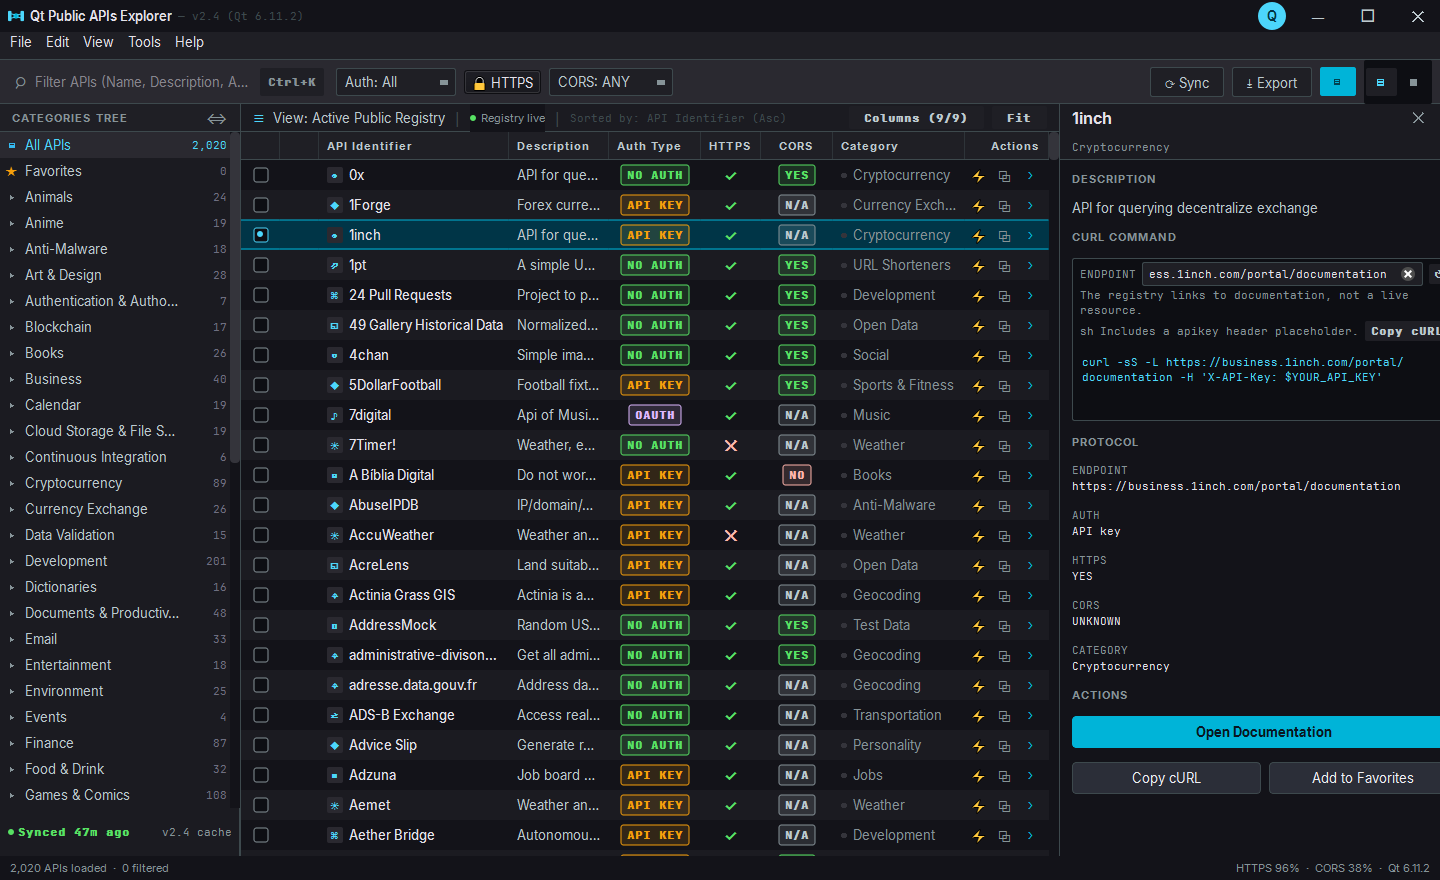
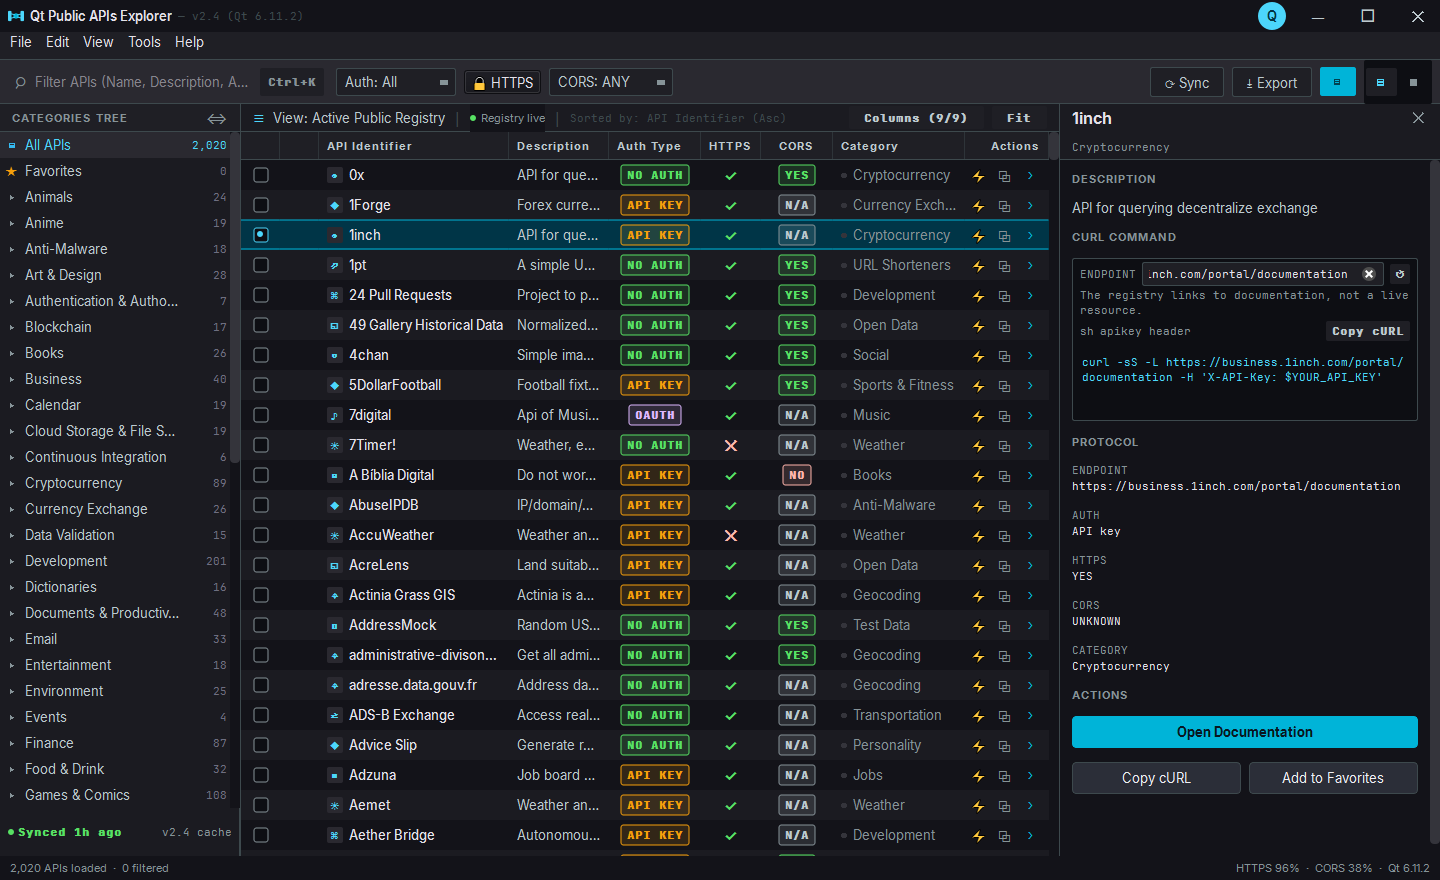
Draw a single title bar in the frameless window
The window now sets FramelessWindowHint so the themed TitleBar is the only
chrome; leaving the native frame on stacked two title bars on Windows.

That removes the OS-provided affordances, so the bar supplies them:
dragging to move, double-click to maximize, and working minimize/maximize/
close buttons. The maximize glyph tracks state, including maximization
triggered externally by snap layouts or a tiling window manager.

Frameless windows also lose the native resize grip, so edges are hit-tested
through an application-level event filter with the matching resize cursors,
clamped to the minimum size.

Also fixes inspector content overflowing its 380px pane: the endpoint field,
note and auth hint now size-ignore horizontally, and the auth hint text was
shortened, so nothing clips the pane edge.

Changed region(s): [[0.75, 0.1841, 1.0, 0.9511], [0.0625, 0.9205, 0.0938, 0.9511]]

diff --git a/qtapis/mainwindow.py b/qtapis/mainwindow.py
@@ -6,7 +6,7 @@ import csv
 import json
 from datetime import datetime, timezone
 
-from PySide6.QtCore import Qt, QTimer, QUrl, qVersion
+from PySide6.QtCore import QPoint, Qt, QTimer, QUrl, qVersion
 from PySide6.QtGui import QAction, QCloseEvent, QDesktopServices, QKeySequence
 from PySide6.QtWidgets import (
     QAbstractItemView,
@@ -69,6 +69,9 @@ APP_VERSION = "2.4"
 # the card view renders a bounded first page and says so.
 CARD_PAGE_SIZE = 240
 
+# Pointer distance from a window edge that starts a resize drag.
+RESIZE_MARGIN = 6
+
 
 def _friendly_age(stamp: str) -> str:
     """Render an ISO timestamp as a short 'synced N ago' string."""
@@ -96,8 +99,20 @@ class MainWindow(QMainWindow):
     def __init__(self, catalog: Catalog, parent=None):
         super().__init__(parent)
         self.setWindowTitle("Qt Public APIs Explorer")
+        # Frameless: the themed TitleBar is the only chrome. Leaving the native
+        # frame on would stack two title bars.
+        self.setWindowFlag(Qt.FramelessWindowHint, True)
+        self.setAttribute(Qt.WA_TranslucentBackground, False)
         self.resize(1440, 880)
         self.setMinimumSize(960, 600)
+
+        # Frameless windows lose the native resize grip, so track the edges.
+        self._resize_edge: str | None = None
+        self._resize_origin: tuple[int, int, int, int] | None = None
+        self._resize_global: QPoint | None = None
+        app = QApplication.instance()
+        if app is not None:
+            app.installEventFilter(self)
 
         self.catalog = catalog
         self.store = RecordStore(catalog.records, catalog.fetched_at, self)
@@ -116,6 +131,136 @@ class MainWindow(QMainWindow):
         self._apply_catalog(catalog)
         QTimer.singleShot(0, self.table_view.setFocus)
 
+    # ------------------------------------------------------- window control
+
+    def toggle_maximized(self) -> None:
+        """Maximize / restore, keeping the glyph in sync."""
+        if self.isMaximized():
+            self.showNormal()
+        else:
+            self.showMaximized()
+        self.title_bar.set_maximized(self.isMaximized())
+
+    def changeEvent(self, event):
+        # The WM can maximize independently (double-click, snap, tiling WM).
+        if event.type() == event.Type.WindowStateChange:
+            self.title_bar.set_maximized(self.isMaximized())
+        super().changeEvent(event)
+
+    def _edge_at(self, pos: QPoint) -> str | None:
+        """Which resize edge (if any) the global point sits on."""
+        if self.isMaximized():
+            return None
+        frame = self.frameGeometry()
+        margin = RESIZE_MARGIN
+        left = pos.x() - frame.left()
+        top = pos.y() - frame.top()
+        right = frame.right() - pos.x()
+        bottom = frame.bottom() - pos.y()
+
+        on_left = 0 <= left <= margin
+        on_right = 0 <= right <= margin
+        on_top = 0 <= top <= margin
+        on_bottom = 0 <= bottom <= margin
+        if not (on_left or on_right or on_top or on_bottom):
+            return None
+        if on_top and on_left:
+            return "top-left"
+        if on_top and on_right:
+            return "top-right"
+        if on_bottom and on_left:
+            return "bottom-left"
+        if on_bottom and on_right:
+            return "bottom-right"
+        if on_left:
+            return "left"
+        if on_right:
+            return "right"
+        if on_top:
+            return "top"
+        return "bottom"
+
+    _CURSORS = {
+        "left": Qt.SizeHorCursor,
+        "right": Qt.SizeHorCursor,
+        "top": Qt.SizeVerCursor,
+        "bottom": Qt.SizeVerCursor,
+        "top-left": Qt.SizeFDiagCursor,
+        "bottom-right": Qt.SizeFDiagCursor,
+        "top-right": Qt.SizeBDiagCursor,
+        "bottom-left": Qt.SizeBDiagCursor,
+    }
+
+    def eventFilter(self, watched, event):
+        if self._resize_edge is not None and event.type() in (
+            event.Type.MouseMove,
+            event.Type.MouseButtonRelease,
+        ):
+            if event.type() == event.Type.MouseButtonRelease:
+                self._end_resize()
+                return False
+            self._apply_resize(event.globalPosition().toPoint())
+            return True
+
+        if event.type() in (event.Type.MouseMove, event.Type.MouseButtonPress):
+            pos = event.globalPosition().toPoint()
+            if event.type() == event.Type.MouseButtonPress:
+                edge = self._edge_at(pos)
+                if edge:
+                    self._resize_edge = edge
+                    self._resize_origin = (
+                        self.geometry().x(), self.geometry().y(),
+                        self.width(), self.height(),
+                    )
+                    self._resize_global = pos
+                    return True
+                return False
+            # Hover feedback only for this window.
+            if watched is self or (watched is not None
+                                   and self.isAncestorOf(watched)):
+                edge = self._edge_at(pos)
+                QApplication.setOverrideCursor(self._CURSORS[edge]) if edge \
+                    else QApplication.restoreOverrideCursor()
+            return False
+        return False
+
+    def _apply_resize(self, pos: QPoint) -> None:
+        if self._resize_origin is None or self._resize_global is None:
+            return
+        x, y, w, h = self._resize_origin
+        dx = pos.x() - self._resize_global.x()
+        dy = pos.y() - self._resize_global.y()
+        edge = self._resize_edge or ""
+
+        if "left" in edge:
+            x += dx
+            w -= dx
+        elif "right" in edge:
+            w += dx
+        if "top" in edge:
+            y += dy
+            h -= dy
+        elif "bottom" in edge:
+            h += dy
+
+        # Clamp to the minimum size by absorbing the overflow on the far edge.
+        if w < self.minimumWidth():
+            if "left" in edge:
+                x -= self.minimumWidth() - w
+            w = self.minimumWidth()
+        if h < self.minimumHeight():
+            if "top" in edge:
+                y -= self.minimumHeight() - h
+            h = self.minimumHeight()
+
+        self.setGeometry(x, y, w, h)
+
+    def _end_resize(self) -> None:
+        self._resize_edge = None
+        self._resize_origin = None
+        self._resize_global = None
+        QApplication.restoreOverrideCursor()
+
     # ------------------------------------------------------------------ UI
 
     def _build_ui(self) -> None:
@@ -126,6 +271,9 @@ class MainWindow(QMainWindow):
         root.setSpacing(0)
 
         self.title_bar = TitleBar()
+        self.title_bar.minimizeRequested.connect(self.showMinimized)
+        self.title_bar.maximizeRequested.connect(self.toggle_maximized)
+        self.title_bar.closeRequested.connect(self.close)
         root.addWidget(self.title_bar)
 
         root.addWidget(self._build_menubar())
@@ -838,6 +986,10 @@ class MainWindow(QMainWindow):
         )
 
     def closeEvent(self, event: QCloseEvent) -> None:
+        self._end_resize()
+        app = QApplication.instance()
+        if app is not None:
+            app.removeEventFilter(self)
         # Never leave a QThread running at teardown.
         self.sync.shutdown()
         # Persist favorites so they survive a restart.

diff --git a/qtapis/inspector.py b/qtapis/inspector.py
@@ -187,6 +187,8 @@ class Inspector(QWidget):
     def _build_curl_well(self, record: ApiRecord) -> QWidget:
         well = QWidget()
         well.setObjectName("curlWell")
+        well.setMinimumWidth(0)
+        well.setSizePolicy(QSizePolicy.Ignored, QSizePolicy.Minimum)
 
         outer = QVBoxLayout(well)
         outer.setContentsMargins(0, 0, 0, 0)
@@ -199,6 +201,7 @@ class Inspector(QWidget):
         ep_tag = QLabel("ENDPOINT")
         ep_tag.setObjectName("fieldKey")
         ep_bar.addWidget(ep_tag)
+        ep_tag.setMaximumWidth(56)
 
         self.endpoint_edit = QLineEdit(record.url or "")
         self.endpoint_edit.setObjectName("endpointInput")
@@ -206,9 +209,10 @@ class Inspector(QWidget):
             "Paste the live endpoint path…"
         )
         self.endpoint_edit.setClearButtonEnabled(True)
-        self.endpoint_edit.setFont(
-            QFont(theme.mono_family(), 8)
-        )
+        self.endpoint_edit.setFont(QFont(theme.mono_family(), 8))
+        self.endpoint_edit.setMinimumWidth(60)
+        self.endpoint_edit.setSizePolicy(QSizePolicy.Ignored,
+                                        QSizePolicy.Fixed)
         self.endpoint_edit.textChanged.connect(self._regenerate_curl)
         ep_bar.addWidget(self.endpoint_edit, 1)
 
@@ -225,6 +229,9 @@ class Inspector(QWidget):
         )
         self.endpoint_note.setObjectName("fieldKey")
         self.endpoint_note.setWordWrap(True)
+        self.endpoint_note.setMinimumWidth(0)
+        self.endpoint_note.setSizePolicy(QSizePolicy.Ignored,
+                                         QSizePolicy.Minimum)
         self.endpoint_note.setContentsMargins(8, 2, 8, 0)
         outer.addWidget(self.endpoint_note)
 
@@ -237,6 +244,8 @@ class Inspector(QWidget):
         bar.addWidget(tag)
         self.auth_hint = QLabel(auth_hint(record))
         self.auth_hint.setObjectName("fieldKey")
+        self.auth_hint.setSizePolicy(QSizePolicy.Ignored, QSizePolicy.Preferred)
+        self.auth_hint.setMinimumWidth(0)
         bar.addWidget(self.auth_hint, 1)
         copy_btn = QPushButton("Copy cURL")
         copy_btn.setObjectName("miniButton")
@@ -247,6 +256,9 @@ class Inspector(QWidget):
 
         self.curl_edit = QPlainTextEdit(self._curl_text())
         self.curl_edit.setObjectName("curlText")
+        self.curl_edit.setLineWrapMode(QPlainTextEdit.WidgetWidth)
+        self.curl_edit.setMinimumWidth(0)
+        self.curl_edit.setSizePolicy(QSizePolicy.Ignored, QSizePolicy.Fixed)
         self.curl_edit.setReadOnly(True)
         self.curl_edit.setFrameShape(QPlainTextEdit.NoFrame)
         self.curl_edit.setFixedHeight(76)

diff --git a/qtapis/widgets.py b/qtapis/widgets.py
@@ -30,6 +30,7 @@ class Logo(QWidget):
         super().__init__(parent)
         self._size = size
         self.setFixedSize(size, size)
+        self.setAttribute(Qt.WA_TransparentForMouseEvents, True)
 
     def paintEvent(self, event):
         from PySide6.QtCore import QPointF, QRectF
@@ -72,6 +73,10 @@ class TitleBar(QWidget):
         self.setObjectName("titleBar")
         self.setFixedHeight(theme.TITLEBAR_H)
 
+        # Frameless windows have no native drag handle, so the bar drags itself.
+        self._drag_offset = None
+        self._dragging = False
+
         layout = QHBoxLayout(self)
         layout.setContentsMargins(8, 0, 0, 0)
         layout.setSpacing(6)
@@ -106,9 +111,47 @@ class TitleBar(QWidget):
             btn.setCursor(Qt.PointingHandCursor)
             btn.clicked.connect(slot)
             layout.addWidget(btn)
+            setattr(self, f"_{obj}", btn)
+
+        # Labels would otherwise swallow the drag that the bar handles.
+        for widget in (self.title, self.version, self.avatar):
+            widget.setAttribute(Qt.WA_TransparentForMouseEvents, True)
 
     def set_version(self, text: str) -> None:
         self.version.setText(text)
+
+    def set_maximized(self, maximized: bool) -> None:
+        self._winMax.setText("❐" if maximized else "□")
+        self._winMax.setToolTip("Restore" if maximized else "Maximize")
+
+    # -- window dragging ---------------------------------------------------
+
+    def mousePressEvent(self, event):
+        if event.button() == Qt.LeftButton:
+            win = self.window()
+            self._drag_offset = (
+                event.globalPosition().toPoint()
+                - win.frameGeometry().topLeft()
+            )
+            self._dragging = True
+        super().mousePressEvent(event)
+
+    def mouseMoveEvent(self, event):
+        if self._dragging and event.buttons() & Qt.LeftButton:
+            win = self.window()
+            if not win.isMaximized():
+                win.move(event.globalPosition().toPoint() - self._drag_offset)
+        super().mouseMoveEvent(event)
+
+    def mouseReleaseEvent(self, event):
+        self._dragging = False
+        self._drag_offset = None
+        super().mouseReleaseEvent(event)
+
+    def mouseDoubleClickEvent(self, event):
+        if event.button() == Qt.LeftButton:
+            self.maximizeRequested.emit()
+        super().mouseDoubleClickEvent(event)
 
 
 class SearchWell(QWidget):

diff --git a/qtapis/curlgen.py b/qtapis/curlgen.py
@@ -60,7 +60,7 @@ def build_curl(record: ApiRecord, endpoint: str | None = None) -> str:
 def auth_hint(record: ApiRecord) -> str:
     """A short note describing what the generated command will contain."""
     if auth_scheme(record):
-        return f"Includes a {record.auth} header placeholder."
+        return f"{record.auth} header"
     if record.auth not in ("none", "unknown", ""):
-        return f"Registry declares '{record.auth}' auth; no header template known."
-    return "No authentication required."
+        return "custom auth"
+    return "no auth"
